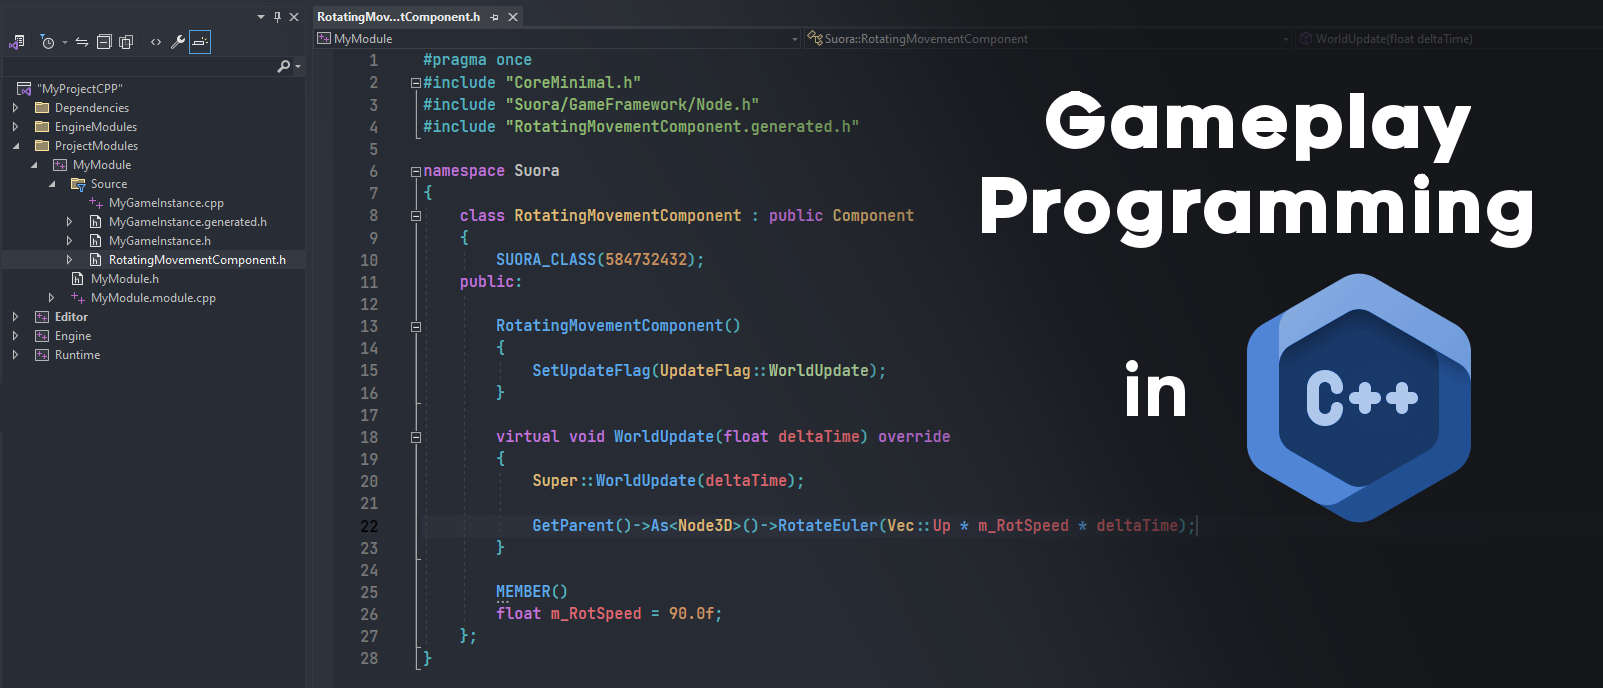
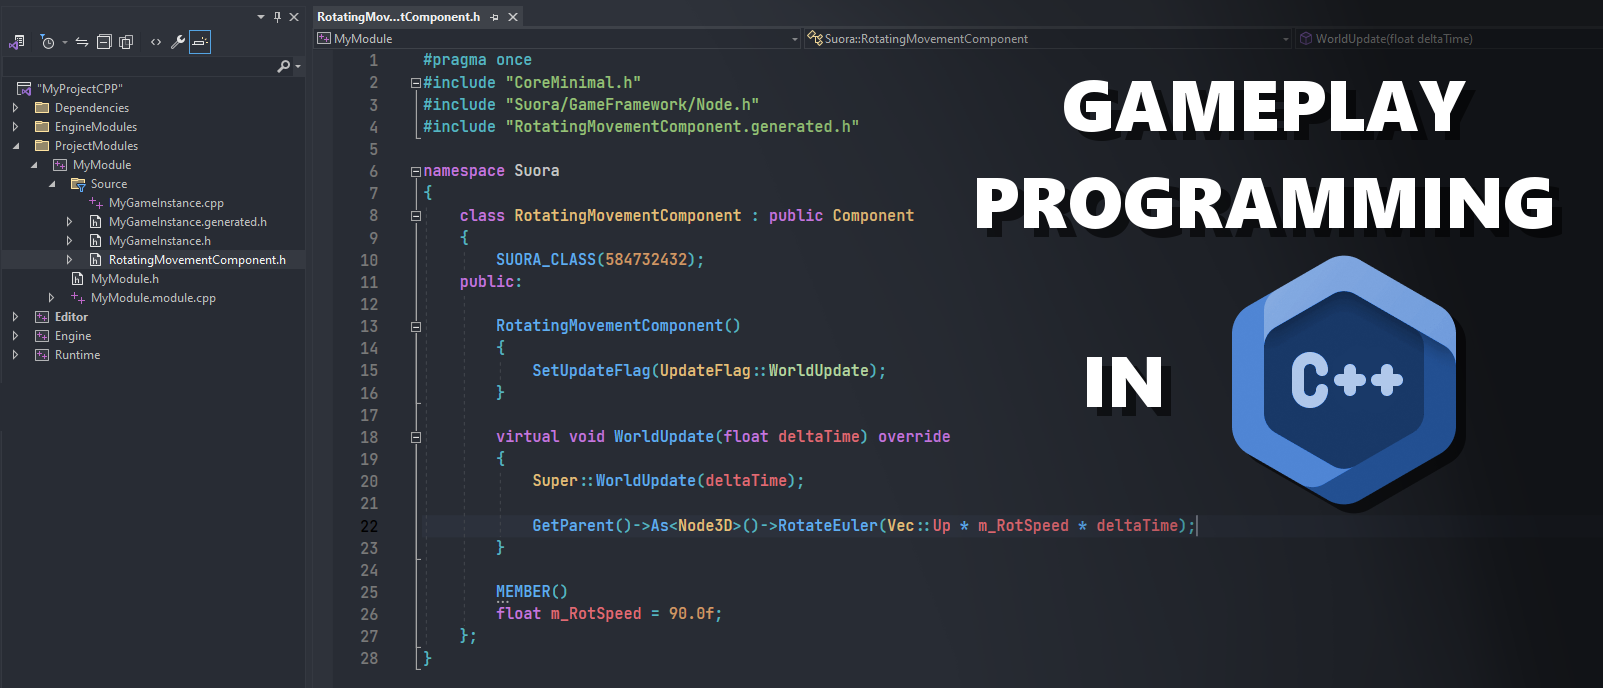
Changed README.md

diff --git a/README.md b/README.md
@@ -12,9 +12,13 @@ SuoraEngine is an open-source C++ Engine for building 3D real-time rendering and
 ## Current Features
 In its current state, Suora's most remarkable features are:
 
+#### Gameplay Programming
 ![Gameplay Programming](Docs/Images/SuoraCPP_Programming.png)
 Gameplay Programming using C++ and a custom C++ Reflection System using SuoraHeaderTool and SuoraBuildTool. Everything is devided into C++ Modules, which can be compiled incrementally.
 
+#### Visual Scripting (Experimental)
+![Visual Scripting](Docs/Images/VisualScripting.png)
+Create custom Gameplay Logic using Visual Scripting. Easy interoperability with C++ using SuoraHeaderTool.
 
 **Other Features Suora offers:**
 
@@ -23,14 +27,13 @@ Gameplay Programming using C++ and a custom C++ Reflection System using SuoraHea
 | **Physics**                           | 3D Physics using JoltPhysics                              |
 | **GameFramework**                     | Flexible Node-based GameFramework                         |
 | **Custom EditorUI**                   | ... using the RenderingAPI as a Backend                   |
-| **Visual Scripting** (Experimental)   | Add custom Game Code using VisualScripting                |
 | **Deferred Rendering**                | Deferred + Forward Rendering using scriptable Shaders     |
 
 ## Getting Started [Windows]
 - Install Visual Studio 2022 and also install **Desktop Development with C++** using the Visual Studio Installer
 ![Screenshot of VS2022-Installer-Workloads](Docs/Images/VS2022-Installer-Workloads.png)
-- To *create a new* or *open an existing* Suora Project, start the Launcher in /Binaries/
-- Select a Project Name and Location and hit *Create*
+- To create a new or open an existing Suora Project, start the Launcher in /Binaries/
+- Choose a Project Name and Location and select **Create Project**
 ![CreateProject](Docs/Images/CreateProject.png)
 - Visual Studio should open by default
   - If not, open the Location in your File Explorer and use the Buildscripts in {ProjectLocation}/Scripts/
